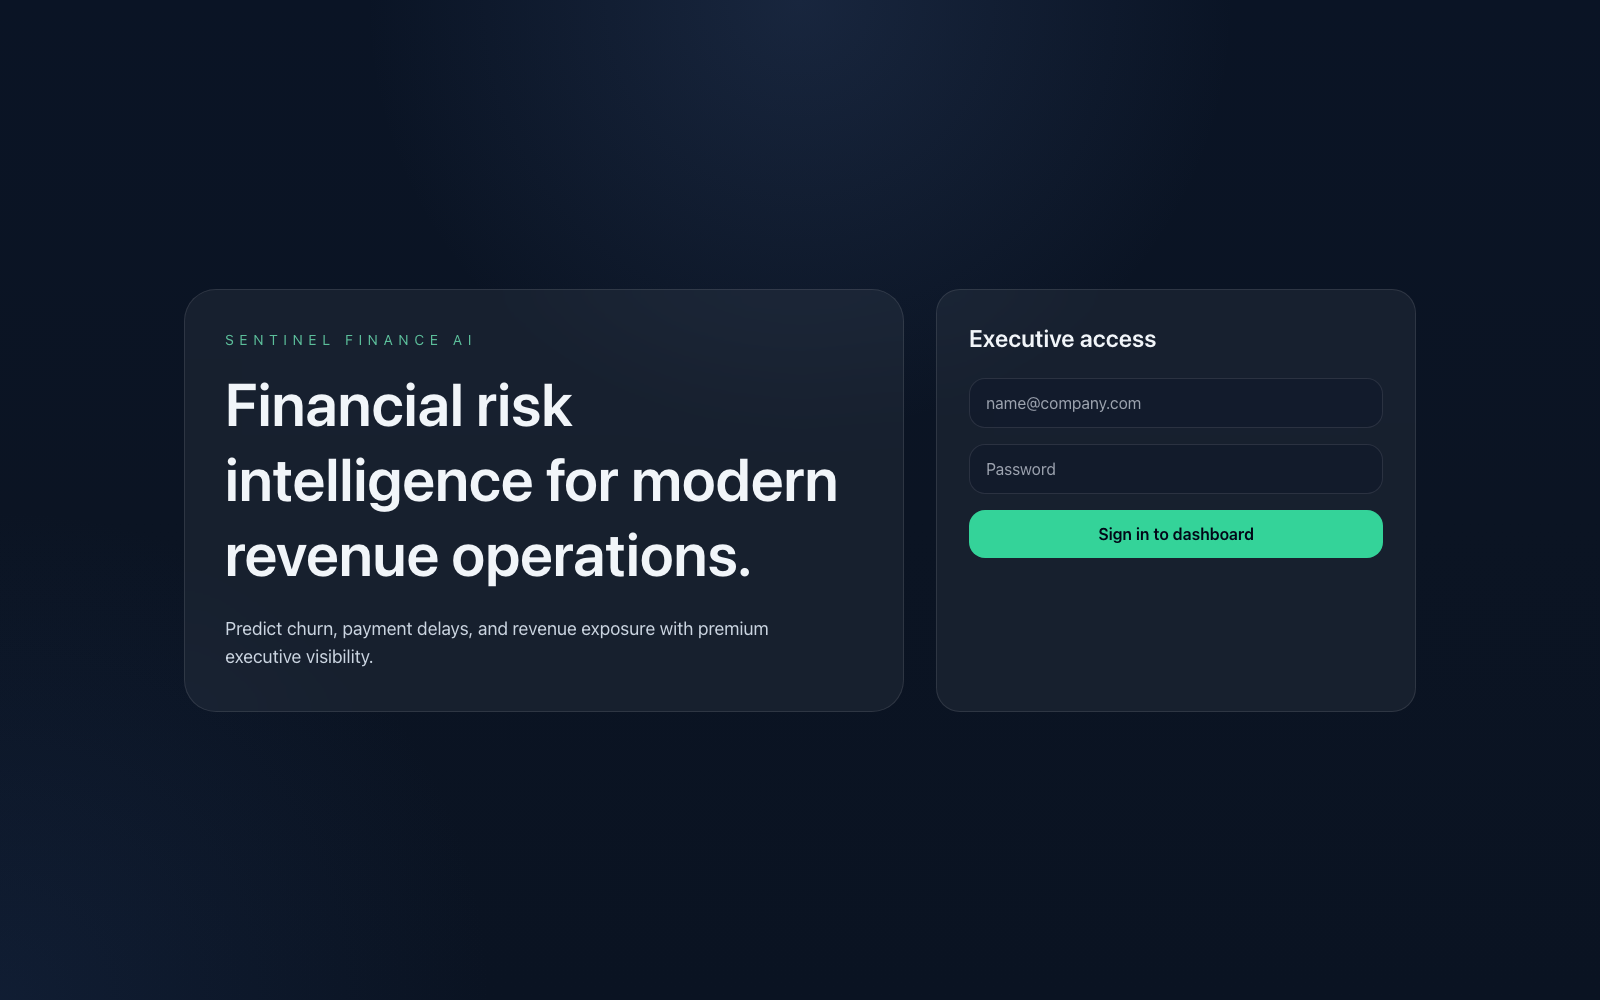
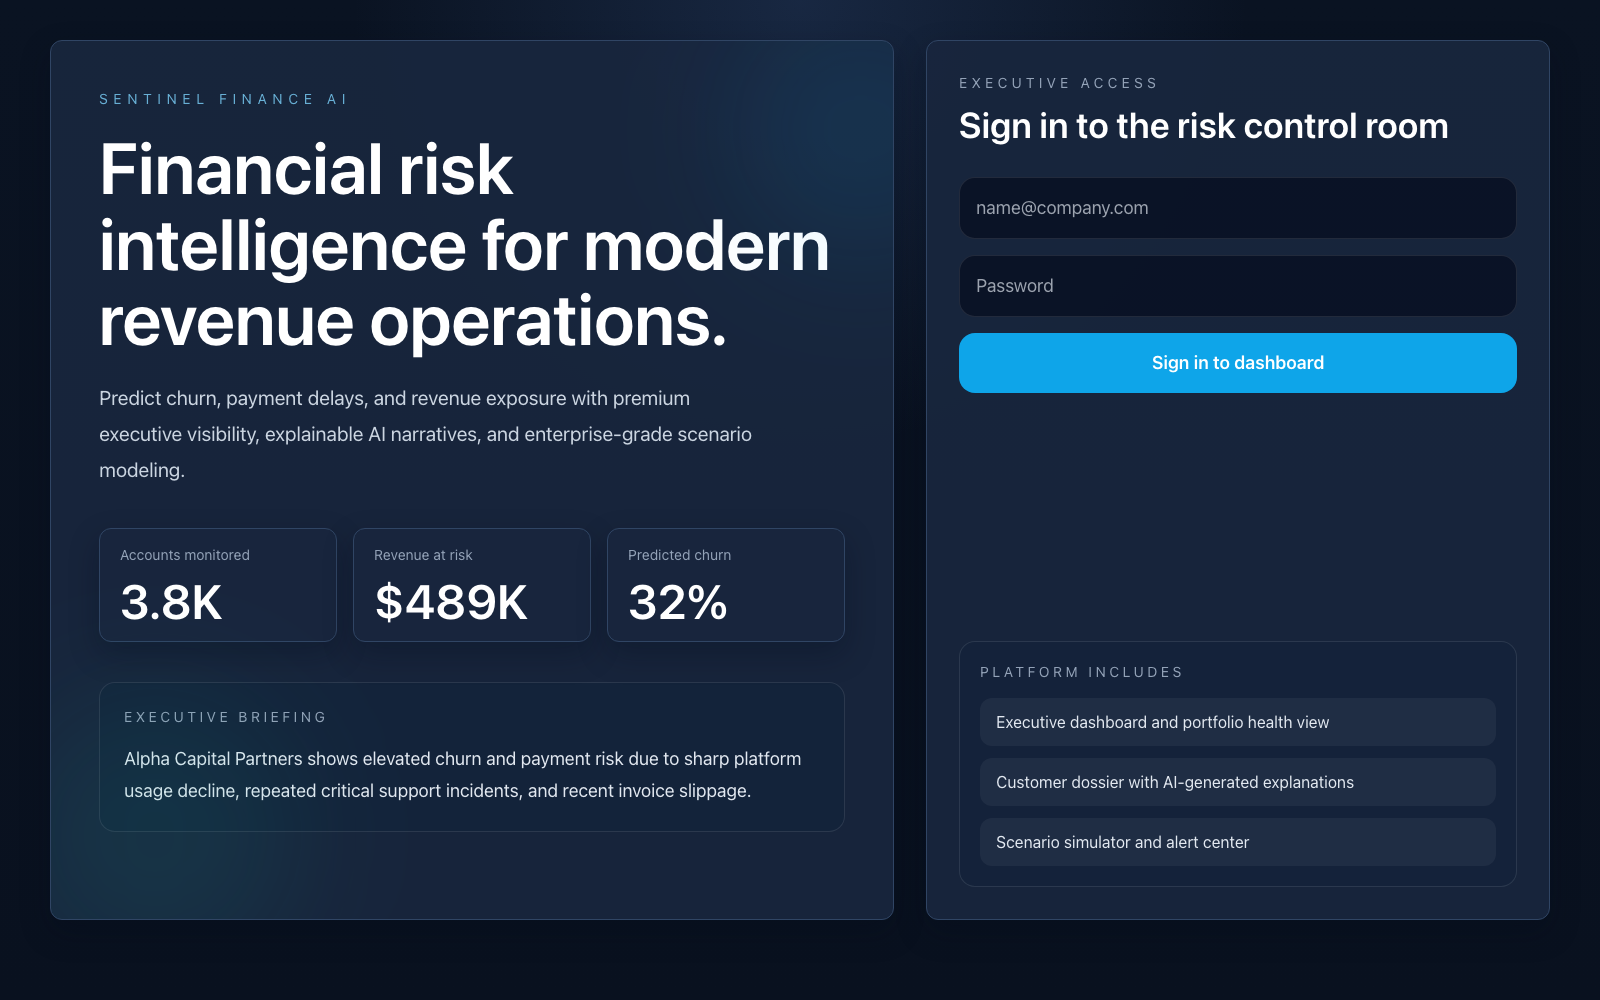
feat: connect frontend views to live api

diff --git a/frontend/lib/api.ts b/frontend/lib/api.ts
@@ -1,0 +1,225 @@
+import { alerts as mockAlerts, customers as mockCustomers, dashboard as mockDashboard } from "@/lib/mock-data";
+
+const apiBaseUrl = process.env.NEXT_PUBLIC_API_BASE_URL ?? "http://localhost:8080";
+
+type ApiDashboard = {
+  totalCustomers: number;
+  portfolioAverageRisk: number;
+  highRiskCustomers: number;
+  predictedChurnPercent: number;
+  predictedLatePaymentPercent: number;
+  revenueAtRisk: number;
+};
+
+type ApiCustomerListItem = {
+  id: string;
+  name: string;
+  segment: string;
+  industry: string;
+  country: string;
+  currentPlan: string;
+  overallRiskScore: number;
+  churnRiskScore: number;
+  latePaymentRiskScore: number;
+  monthlyRevenue: number;
+  riskLevel: string;
+};
+
+type ApiCustomerDetail = {
+  customer: {
+    id: string;
+    name: string;
+    segment: string;
+    country: string;
+    industry: string;
+    monthlyRevenue: number;
+    currentPlan: string;
+  };
+  latestRiskAssessment: {
+    overallRiskScore: number;
+    churnRiskScore: number;
+    latePaymentRiskScore: number;
+    summary: string;
+  };
+  payments: Array<{
+    dueDate: string;
+    status: string;
+    amount: number;
+  }>;
+  tickets: Array<{
+    severity: string;
+  }>;
+  usageMetrics: Array<{
+    activeUsers: number;
+    usageVariationPercent: number;
+  }>;
+};
+
+type ApiAlert = {
+  id: string;
+  customerId: string;
+  customerName: string;
+  type: string;
+  severity: string;
+  title: string;
+  description: string;
+  isResolved: boolean;
+};
+
+async function safeFetch<T>(path: string): Promise<T | null> {
+  try {
+    const response = await fetch(`${apiBaseUrl}${path}`, {
+      next: { revalidate: 60 }
+    });
+
+    if (!response.ok) {
+      return null;
+    }
+
+    return (await response.json()) as T;
+  } catch {
+    return null;
+  }
+}
+
+export async function getDashboardViewModel() {
+  const apiDashboard = await safeFetch<ApiDashboard>("/api/risk-assessments");
+  if (!apiDashboard) {
+    return mockDashboard;
+  }
+
+  return {
+    ...mockDashboard,
+    portfolioRiskScore: Math.round(apiDashboard.portfolioAverageRisk),
+    highRiskClients: apiDashboard.highRiskCustomers,
+    projectedChurn: `${Math.round(apiDashboard.predictedChurnPercent)}%`,
+    latePayments: Math.round(apiDashboard.predictedLatePaymentPercent * 4.4),
+    revenueAtRisk: new Intl.NumberFormat("en-US", {
+      style: "currency",
+      currency: "USD",
+      maximumFractionDigits: 0
+    }).format(apiDashboard.revenueAtRisk)
+  };
+}
+
+export async function getCustomersViewModel() {
+  const apiCustomers = await safeFetch<ApiCustomerListItem[]>("/api/customers");
+  if (!apiCustomers) {
+    return mockCustomers;
+  }
+
+  return apiCustomers.map((customer) => ({
+    id: customer.id,
+    name: customer.name,
+    segment: customer.segment,
+    country: customer.country,
+    industry: customer.industry,
+    plan: customer.currentPlan,
+    risk: Math.round(customer.overallRiskScore),
+    churn: Math.round(customer.churnRiskScore),
+    late: Math.round(customer.latePaymentRiskScore),
+    revenue: new Intl.NumberFormat("en-US", {
+      style: "currency",
+      currency: "USD",
+      maximumFractionDigits: 0
+    }).format(customer.monthlyRevenue),
+    summary: `${customer.segment} account with ${customer.riskLevel.toLowerCase()} monitored risk profile.`,
+    countryFlag: customer.country.slice(0, 2).toUpperCase(),
+    status:
+      customer.overallRiskScore >= 75
+        ? "Payment Overdue"
+        : customer.overallRiskScore >= 45
+          ? "Renewal Watch"
+          : "Healthy",
+    contractRenewal: customer.overallRiskScore >= 45 ? "60 days" : "120 days",
+    activeUsers: Math.max(45, Math.round(customer.monthlyRevenue / 520)),
+    usageDelta: customer.overallRiskScore >= 75 ? "-28%" : customer.overallRiskScore >= 45 ? "-7%" : "+5%",
+    aiNarrative: `${customer.name} remains under monitoring due to the current balance between product adoption, billing behavior, and revenue exposure.`,
+    paymentHistory: [
+      { month: "Jan", status: "Paid", amount: new Intl.NumberFormat("en-US", { style: "currency", currency: "USD", maximumFractionDigits: 0 }).format(customer.monthlyRevenue) },
+      { month: "Feb", status: "Paid", amount: new Intl.NumberFormat("en-US", { style: "currency", currency: "USD", maximumFractionDigits: 0 }).format(customer.monthlyRevenue) },
+      { month: "Mar", status: customer.overallRiskScore >= 75 ? "Overdue" : "Paid", amount: new Intl.NumberFormat("en-US", { style: "currency", currency: "USD", maximumFractionDigits: 0 }).format(customer.monthlyRevenue) }
+    ],
+    recentSignals: [
+      { label: "Critical tickets", value: customer.overallRiskScore >= 75 ? "4" : customer.overallRiskScore >= 45 ? "1" : "0", tone: customer.overallRiskScore >= 75 ? "red" : customer.overallRiskScore >= 45 ? "amber" : "green" },
+      { label: "Usage delta", value: customer.overallRiskScore >= 75 ? "-28%" : customer.overallRiskScore >= 45 ? "-7%" : "+5%", tone: customer.overallRiskScore >= 75 ? "orange" : customer.overallRiskScore >= 45 ? "amber" : "green" },
+      { label: "Renewal window", value: customer.overallRiskScore >= 45 ? "60 days" : "120 days", tone: customer.overallRiskScore >= 75 ? "orange" : customer.overallRiskScore >= 45 ? "amber" : "green" }
+    ]
+  }));
+}
+
+export async function getCustomerDetailViewModel(id: string) {
+  const [apiCustomer, customerList] = await Promise.all([
+    safeFetch<ApiCustomerDetail>(`/api/customers/${id}`),
+    getCustomersViewModel()
+  ]);
+
+  if (!apiCustomer) {
+    return customerList.find((item) => item.id === id) ?? customerList[0];
+  }
+
+  const fallback = customerList.find((item) => item.id === id) ?? customerList[0];
+  return {
+    ...fallback,
+    id: apiCustomer.customer.id,
+    name: apiCustomer.customer.name,
+    segment: apiCustomer.customer.segment,
+    country: apiCustomer.customer.country,
+    industry: apiCustomer.customer.industry,
+    plan: apiCustomer.customer.currentPlan,
+    risk: Math.round(apiCustomer.latestRiskAssessment.overallRiskScore),
+    churn: Math.round(apiCustomer.latestRiskAssessment.churnRiskScore),
+    late: Math.round(apiCustomer.latestRiskAssessment.latePaymentRiskScore),
+    revenue: new Intl.NumberFormat("en-US", {
+      style: "currency",
+      currency: "USD",
+      maximumFractionDigits: 0
+    }).format(apiCustomer.customer.monthlyRevenue),
+    summary: apiCustomer.latestRiskAssessment.summary,
+    activeUsers: apiCustomer.usageMetrics[0]?.activeUsers ?? fallback.activeUsers,
+    usageDelta: `${apiCustomer.usageMetrics[0]?.usageVariationPercent ?? 0}%`,
+    aiNarrative: apiCustomer.latestRiskAssessment.summary,
+    paymentHistory: apiCustomer.payments.slice(0, 3).map((payment, index) => ({
+      month: ["Jan", "Feb", "Mar"][index] ?? `P${index + 1}`,
+      status: payment.status,
+      amount: new Intl.NumberFormat("en-US", {
+        style: "currency",
+        currency: "USD",
+        maximumFractionDigits: 0
+      }).format(payment.amount)
+    })),
+    recentSignals: [
+      {
+        label: "Critical tickets",
+        value: String(apiCustomer.tickets.filter((ticket) => ticket.severity === "Critical").length),
+        tone: apiCustomer.tickets.filter((ticket) => ticket.severity === "Critical").length >= 3 ? "red" : "amber"
+      },
+      {
+        label: "Usage delta",
+        value: `${apiCustomer.usageMetrics[0]?.usageVariationPercent ?? 0}%`,
+        tone: (apiCustomer.usageMetrics[0]?.usageVariationPercent ?? 0) < -15 ? "orange" : "green"
+      },
+      {
+        label: "Renewal window",
+        value: fallback.contractRenewal,
+        tone: fallback.recentSignals[2]?.tone ?? "amber"
+      }
+    ]
+  };
+}
+
+export async function getAlertsViewModel() {
+  const apiAlerts = await safeFetch<ApiAlert[]>("/api/alerts");
+  if (!apiAlerts) {
+    return mockAlerts;
+  }
+
+  return apiAlerts.map((alert) => ({
+    id: alert.id,
+    severity: alert.severity,
+    title: alert.title,
+    customer: alert.customerName,
+    type: alert.type,
+    status: alert.isResolved ? "Resolved" : "Open"
+  }));
+}

diff --git a/frontend/app/login/page.tsx b/frontend/app/login/page.tsx
@@ -2,23 +2,60 @@ import Link from "next/link";
 
 export default function LoginPage() {
   return (
-    <main className="shell flex min-h-screen items-center">
-      <section className="grid w-full gap-8 lg:grid-cols-[1.2fr_0.8fr]">
-        <div className="rounded-[2rem] border border-white/10 bg-white/5 p-10 backdrop-blur-xl">
-          <p className="text-sm uppercase tracking-[0.4em] text-emerald-300/80">Sentinel Finance AI</p>
-          <h1 className="mt-4 max-w-2xl text-6xl font-semibold leading-tight">Financial risk intelligence for modern revenue operations.</h1>
-          <p className="mt-6 max-w-xl text-lg text-slate-300">
-            Predict churn, payment delays, and revenue exposure with premium executive visibility.
+    <main className="min-h-screen bg-[radial-gradient(circle_at_top,rgba(74,113,179,0.22),transparent_35%),linear-gradient(180deg,#0a1322_0%,#09111f_100%)] px-6 py-10">
+      <section className="mx-auto grid min-h-[88vh] max-w-[1500px] gap-8 lg:grid-cols-[1.15fr_0.85fr]">
+        <div className="panel relative overflow-hidden p-12">
+          <div className="absolute -right-24 top-[-40px] h-64 w-64 rounded-full bg-sky-500/10 blur-3xl" />
+          <div className="absolute bottom-[-60px] left-[-40px] h-72 w-72 rounded-full bg-teal-500/10 blur-3xl" />
+          <p className="text-sm uppercase tracking-[0.4em] text-sky-300/80">Sentinel Finance AI</p>
+          <h1 className="mt-5 max-w-3xl text-7xl font-semibold leading-[1.05] text-white">Financial risk intelligence for modern revenue operations.</h1>
+          <p className="mt-6 max-w-2xl text-xl leading-9 text-slate-300">
+            Predict churn, payment delays, and revenue exposure with premium executive visibility, explainable AI narratives, and enterprise-grade scenario modeling.
           </p>
+
+          <div className="mt-10 grid max-w-4xl gap-4 md:grid-cols-3">
+            <div className="metric-card">
+              <p className="text-sm text-slate-400">Accounts monitored</p>
+              <div className="mt-3 text-5xl font-semibold text-white">3.8K</div>
+            </div>
+            <div className="metric-card">
+              <p className="text-sm text-slate-400">Revenue at risk</p>
+              <div className="mt-3 text-5xl font-semibold text-white">$489K</div>
+            </div>
+            <div className="metric-card">
+              <p className="text-sm text-slate-400">Predicted churn</p>
+              <div className="mt-3 text-5xl font-semibold text-white">32%</div>
+            </div>
+          </div>
+
+          <div className="mt-10 rounded-2xl border border-white/10 bg-[#13223a]/90 p-6">
+            <p className="text-sm uppercase tracking-[0.25em] text-slate-400">Executive briefing</p>
+            <p className="mt-4 text-lg leading-8 text-slate-200">
+              Alpha Capital Partners shows elevated churn and payment risk due to sharp platform usage decline, repeated critical support incidents, and recent invoice slippage.
+            </p>
+          </div>
         </div>
-        <div className="glass p-8">
-          <h2 className="text-2xl font-semibold">Executive access</h2>
-          <div className="mt-6 space-y-4">
-            <input className="w-full rounded-2xl border border-white/10 bg-slate-900/60 px-4 py-3" placeholder="name@company.com" />
-            <input className="w-full rounded-2xl border border-white/10 bg-slate-900/60 px-4 py-3" placeholder="Password" type="password" />
-            <Link href="/dashboard" className="block rounded-2xl bg-emerald-400 px-4 py-3 text-center font-semibold text-slate-950">
-              Sign in to dashboard
-            </Link>
+
+        <div className="panel flex flex-col justify-between p-8">
+          <div>
+            <p className="text-sm uppercase tracking-[0.3em] text-slate-400">Executive access</p>
+            <h2 className="mt-3 text-4xl font-semibold text-white">Sign in to the risk control room</h2>
+            <div className="mt-8 space-y-4">
+              <input className="w-full rounded-2xl border border-white/10 bg-slate-950/60 px-4 py-4 text-lg text-white" placeholder="name@company.com" />
+              <input className="w-full rounded-2xl border border-white/10 bg-slate-950/60 px-4 py-4 text-lg text-white" placeholder="Password" type="password" />
+              <Link href="/dashboard" className="block rounded-2xl bg-sky-500 px-4 py-4 text-center text-lg font-semibold text-white">
+                Sign in to dashboard
+              </Link>
+            </div>
+          </div>
+
+          <div className="mt-8 rounded-2xl border border-white/10 bg-[#13223a]/80 p-5">
+            <p className="text-sm uppercase tracking-[0.25em] text-slate-400">Platform includes</p>
+            <div className="mt-4 grid gap-3 text-slate-200">
+              <div className="rounded-xl bg-white/5 px-4 py-3">Executive dashboard and portfolio health view</div>
+              <div className="rounded-xl bg-white/5 px-4 py-3">Customer dossier with AI-generated explanations</div>
+              <div className="rounded-xl bg-white/5 px-4 py-3">Scenario simulator and alert center</div>
+            </div>
           </div>
         </div>
       </section>

diff --git a/frontend/app/(app)/customers/[id]/page.tsx b/frontend/app/(app)/customers/[id]/page.tsx
@@ -1,5 +1,5 @@
 import Link from "next/link";
-import { customers } from "@/lib/mock-data";
+import { getCustomerDetailViewModel } from "@/lib/api";
 
 const signalTone: Record<string, string> = {
   red: "bg-red-500/20 text-red-100",
@@ -8,8 +8,8 @@ const signalTone: Record<string, string> = {
   green: "bg-emerald-500/20 text-emerald-100"
 };
 
-export default function CustomerDetailsPage({ params }: { params: { id: string } }) {
-  const customer = customers.find((item) => item.id === params.id) ?? customers[0];
+export default async function CustomerDetailsPage({ params }: { params: { id: string } }) {
+  const customer = await getCustomerDetailViewModel(params.id);
 
   return (
     <div className="space-y-4">

diff --git a/frontend/app/(app)/customers/page.tsx b/frontend/app/(app)/customers/page.tsx
@@ -1,5 +1,5 @@
 import Link from "next/link";
-import { customers } from "@/lib/mock-data";
+import { getCustomersViewModel } from "@/lib/api";
 
 const toneClasses: Record<string, string> = {
   Healthy: "bg-emerald-500/20 text-emerald-100",
@@ -7,7 +7,9 @@ const toneClasses: Record<string, string> = {
   "Renewal Watch": "bg-orange-500/20 text-orange-100"
 };
 
-export default function CustomersPage() {
+export default async function CustomersPage() {
+  const customers = await getCustomersViewModel();
+
   return (
     <div className="space-y-4">
       <div className="grid gap-4 xl:grid-cols-[1.1fr_0.9fr]">

diff --git a/frontend/app/(app)/alerts/page.tsx b/frontend/app/(app)/alerts/page.tsx
@@ -1,4 +1,5 @@
-import { alertStats, alerts } from "@/lib/mock-data";
+import { getAlertsViewModel } from "@/lib/api";
+import { alertStats } from "@/lib/mock-data";
 
 const severityTone: Record<string, string> = {
   Critical: "bg-red-500/20 text-red-100",
@@ -6,7 +7,9 @@ const severityTone: Record<string, string> = {
   Warning: "bg-amber-500/20 text-amber-100"
 };
 
-export default function AlertsPage() {
+export default async function AlertsPage() {
+  const alerts = await getAlertsViewModel();
+
   return (
     <div className="space-y-4">
       <div className="grid gap-4 xl:grid-cols-[1.1fr_0.9fr]">

diff --git a/frontend/app/(app)/dashboard/page.tsx b/frontend/app/(app)/dashboard/page.tsx
@@ -1,4 +1,4 @@
-import { dashboard } from "@/lib/mock-data";
+import { getDashboardViewModel } from "@/lib/api";
 
 const badgeStyles: Record<string, string> = {
   red: "bg-red-500/20 text-red-200",
@@ -36,7 +36,9 @@ function MetricCard({
   );
 }
 
-export default function DashboardPage() {
+export default async function DashboardPage() {
+  const dashboard = await getDashboardViewModel();
+
   return (
     <div className="space-y-4">
       <section className="grid gap-4 xl:grid-cols-6">
